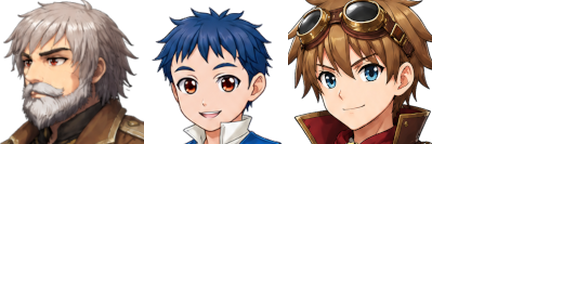
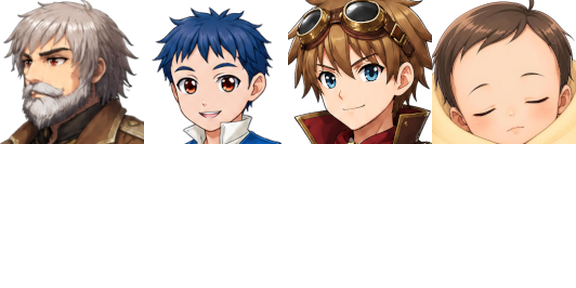
Washer's face, beside the narration when you look at the baby
Mike's sleeping portrait (4 November) goes in Supplied2 cell 3, with the
whole picture as Supplied2_4. story.narrate takes a face for somebody who
is being looked at and cannot say anything; the four narration windows of
Washer's event use it, rewrapped to the 47 columns a face leaves, the
words unchanged. Mrs Cotterill keeps her own face for her line.

Claude-Session: https://claude.ai/code/session_01DT7LL7HdDHkfFQ7pwiGzCu

Changed region(s): [[0.75, 0.0, 1.0, 0.5]]

diff --git a/build/north.py b/build/north.py
@@ -225,20 +225,20 @@ def washer_event(event_id, x, y):
     """Map 21: the tenth Cotterill, asleep on the end of Mrs Cotterill's
     bench from the morning after SPA-3; looked at once, then in passing."""
     first = S.narrate([
-        "Washer Cotterill, the tenth. Asleep on the end of the",
-        "bench, in a shawl that has been round all nine of the",
-        "others."])
+        "Washer Cotterill, the tenth. Asleep on the",
+        "end of the bench, in a shawl that has been",
+        "round all nine of the others."], face="Washer")
     first += S.narrate([
-        "A hand comes out of the shawl and takes hold of your",
-        "finger. It does not give it back."])
+        "A hand comes out of the shawl and takes hold",
+        "of your finger. It does not give it back."], face="Washer")
     first += S.say("Mrs Cotterill", ["They all do that.",
                                      "Spare held on till teatime."])
     first += S.narrate([
-        "Eventually it lets go. Washer has not woken up for any",
-        "of this."])
+        "Eventually it lets go. Washer has not woken",
+        "up for any of this."], face="Washer")
     first += [R.self_switch("A", True)]
-    again = S.narrate(["Washer is asleep, with one fist out of the shawl,",
-                       "ready."])
+    again = S.narrate(["Washer is asleep, with one fist out of the",
+                       "shawl, ready."], face="Washer")
     img = R.image("!$Washer", 0, direction=2)
     born = {"switch1Valid": True, "switch1Id": db.SW_SPA3_DONE}
     return R.event(event_id, "Washer", x, y, [

diff --git a/build/story.py b/build/story.py
@@ -457,6 +457,7 @@ FACES = {
     "Miss Fettle": ("Gen_People6", 4),
     # Cotter, generated: SF_Actor2 7 read as a woman.
     "Cotter": ("Supplied2", 2),                # Mike drew him (3 Nov)
+    "Washer": ("Supplied2", 3),                # asleep; Mike drew it (4 Nov)
     # SPA-1's courier (QUESTS.md F2), generated: red coat, flat cap.
     "Courier": ("Supplied", 3),                # Mike drew him (3 Nov)
     # SPA-4, Much Pottering (QUESTS.md F3), all generated: Spare's pen pal,
@@ -561,13 +562,16 @@ def say(speaker, lines, *, face=True, indent=0, position=2):
     return out
 
 
-def narrate(lines, indent=0):
-    """Screen text with nobody speaking - descriptions, and the narrator."""
+def narrate(lines, indent=0, face=None):
+    """Screen text with nobody speaking - descriptions, and the narrator.
+    `face` names a `FACES` key to show beside it, for somebody who is being
+    looked at and cannot say anything (Washer)."""
+    name, index = FACES[face] if face else ("", 0)
     out = []
     for page in _pages(lines):
         for line in page:
-            _check_width(line, "", None)
-        out += R.text(page, indent=indent)
+            _check_width(line, name, None)
+        out += R.text(page, face_name=name, face_index=index, indent=indent)
     return out
 
 

diff --git a/build/supplied.py b/build/supplied.py
@@ -34,6 +34,7 @@ PORTRAITS = [
     ("Supplied2", 0, "mr_dray_portrait.png"),      # Mr Dray
     ("Supplied2", 1, "spare_cotterill_portrait.png"),   # Spare
     ("Supplied2", 2, "cotter_cotterill_portrait.png"),  # Cotter
+    ("Supplied2", 3, "washer_portrait.png"),            # Washer, asleep (4 Nov)
 ]
 
 # The whole portrait each face was cut from, 330x350 like the stock busts,
@@ -52,6 +53,7 @@ PICTURES = {
     "mr_dray_portrait.png": "mr_dray_picture.png",
     "spare_cotterill_portrait.png": "spare_cotterill_picture.png",
     "cotter_cotterill_portrait.png": "cotter_cotterill_picture.png",
+    "washer_portrait.png": "washer_picture.png",
 }
 
 

diff --git a/build/API.md b/build/API.md
@@ -477,7 +477,7 @@ Shared event-building helpers: how people talk, how doors work, and the
 ```
 sprite(key)                                          The (sheet, index) a speaker's event is drawn with: SPRITES, else their face.
 say(speaker, lines, *, face=True, indent=0, position=2) One person saying something, over as many windows as it takes.
-narrate(lines, indent=0)                             Screen text with nobody speaking - descriptions, and the narrator.
+narrate(lines, indent=0, face=None)                  Screen text with nobody speaking - descriptions, and the narrator.
 trope(indent=0)                                      Bump the cliché counter. The ending reads the total back to the player,
 blush(indent=0)                                      Bump the count of things nobody quite said.
 companion_story(actor_id, indent=0)                  A companion quest is finished: turn on that companion's story switch,
@@ -498,7 +498,7 @@ recruit(event_id, actor_id, name, x, y, sheet, index, *, pitch, accept, decline,
 roster_amendment(companions=None, clerk='Clerk')     A dismissal form. Lets the player swap a companion out without
 ```
 
-### `FACES` — who already has a face (222)
+### `FACES` — who already has a face (223)
 
 The key is what `say()` prints as the speaker's name. Adding somebody here is how a new character gets a portrait; sharing an existing sheet and index is normal and the reasons are commented in the module.
 
@@ -555,10 +555,10 @@ Miss Moon             The Convenor          Fellow Grice          Fellow Amory
 Fellow Blunt          Mr Pennock            Professor Mott        Dr Furze
 Mother Grizel         Dr Hobday             Nan Gilly             Mr Spence
 Ambrosine             Lorrimer              Maud                  Miss Fettle
-Cotter                Courier               Effie                 Mrs Gotobed
-Mr Gotobed            Mr Dibble             Mrs Throssell         Mr Cobley
-Thalion               Aelwen                Elowen                Calder
-Ninian                The Copyist
+Cotter                Washer                Courier               Effie
+Mrs Gotobed           Mr Gotobed            Mr Dibble             Mrs Throssell
+Mr Cobley             Thalion               Aelwen                Elowen
+Calder                Ninian                The Copyist
 ```
 
 
